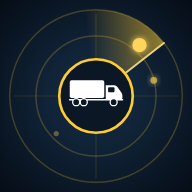
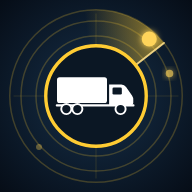
App heißt jetzt Frachtradar, App-Bild mit größerem LKW (4.9)
Claude-Session: https://claude.ai/code/session_01CBZNsc86tjysCV3teyg8Ag

diff --git a/index.html b/index.html
@@ -5,13 +5,13 @@
 <meta name="viewport" content="width=device-width, initial-scale=1, viewport-fit=cover">
 <meta name="theme-color" content="#34506b">
 <meta name="robots" content="noindex">
-<link rel="manifest" href="manifest.webmanifest?v=2">
-<link rel="icon" href="icon-192.png?v=2">
-<link rel="apple-touch-icon" href="icon-192.png?v=2">
+<link rel="manifest" href="manifest.webmanifest?v=3">
+<link rel="icon" href="icon-192.png?v=3">
+<link rel="apple-touch-icon" href="icon-192.png?v=3">
 <style>html,body{margin:0}[hidden]{display:none!important}img{max-width:100%}</style>
 </head>
 <body>
-<title>Fracht-Wächter mobil</title>
+<title>Frachtradar</title>
 <meta name="claude:viewport-fit-sides" content="cover">
 <link rel="preconnect" href="https://fonts.googleapis.com">
 <link rel="stylesheet" href="https://fonts.googleapis.com/css2?family=Inter:wght@400;500;600;700&display=swap">
@@ -377,7 +377,7 @@ body.karten-an .spalten, body.karten-an #liste { display: none; }
 
 <header class="kopf">
   <div class="kopf-zeile">
-    <div class="marke"><i aria-hidden="true"></i>Fracht-Wächter</div>
+    <div class="marke"><i aria-hidden="true"></i>Frachtradar</div>
     <div class="stand" id="stand">Beispieldaten</div>
     <button class="ikon" id="ton" type="button" aria-label="Ton bei neuen Touren">🔔</button>
     <button class="ikon" id="neu" type="button" aria-label="Aktualisieren">↻</button>
@@ -531,7 +531,7 @@ function angeboteAus(ereignisse) {
 
 <script>
 (function () {
-  const APP_VERSION = '4.8 (24.11.)';
+  const APP_VERSION = '4.9 (24.11.)';
   const $ = (id) => document.getElementById(id);
   const h = (tag, attrs, ...kinder) => {
     const el = document.createElement(tag);
